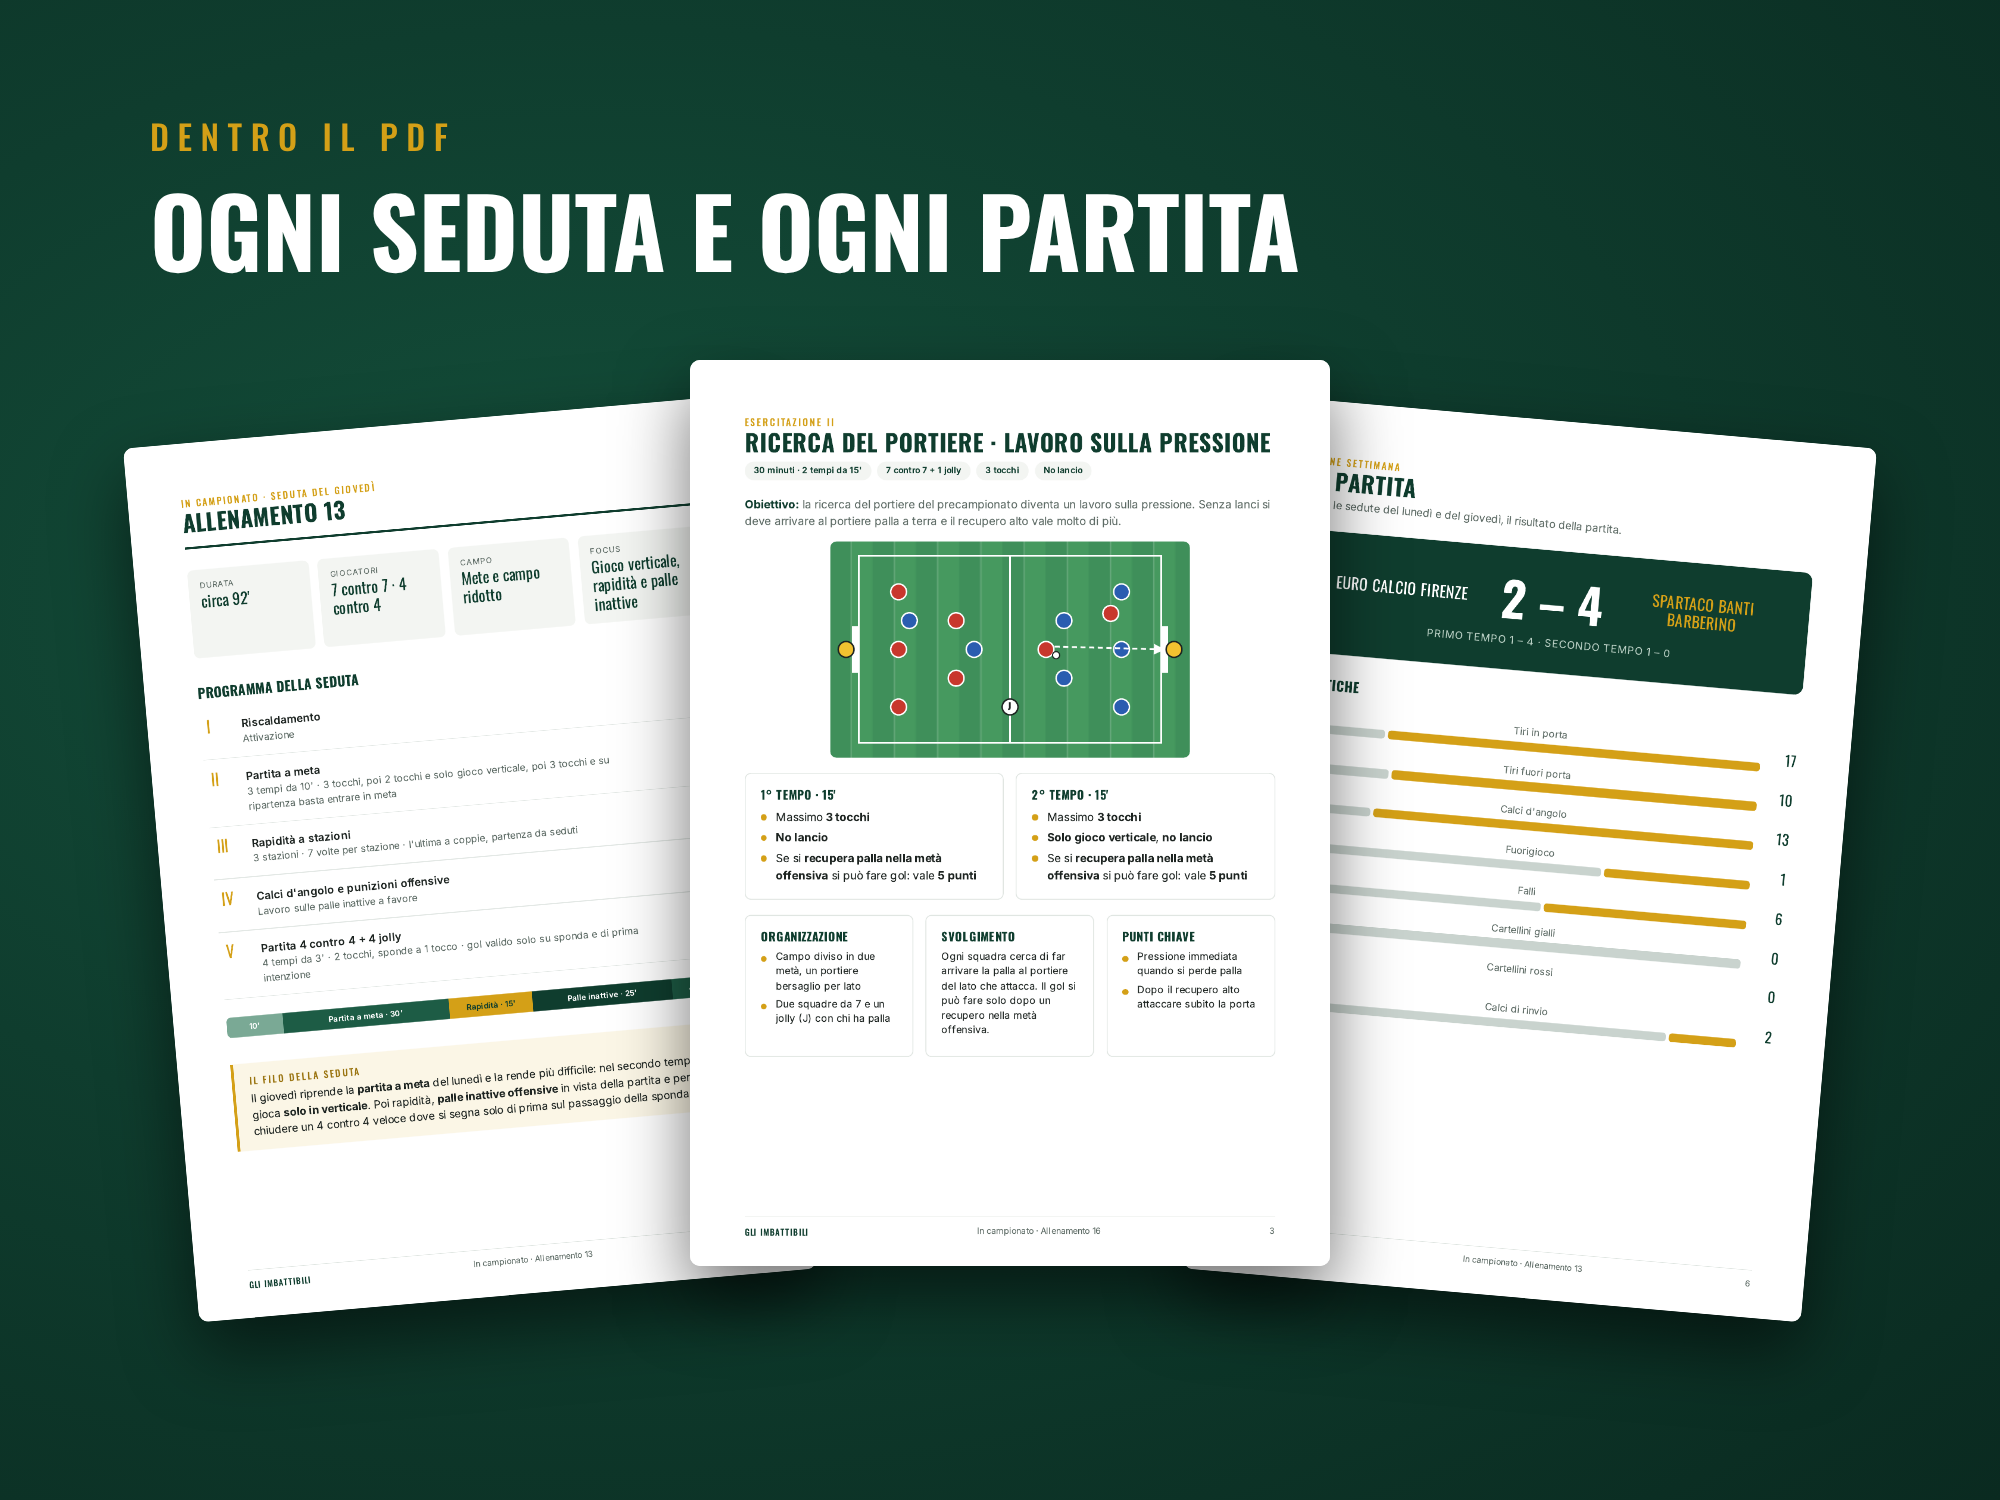
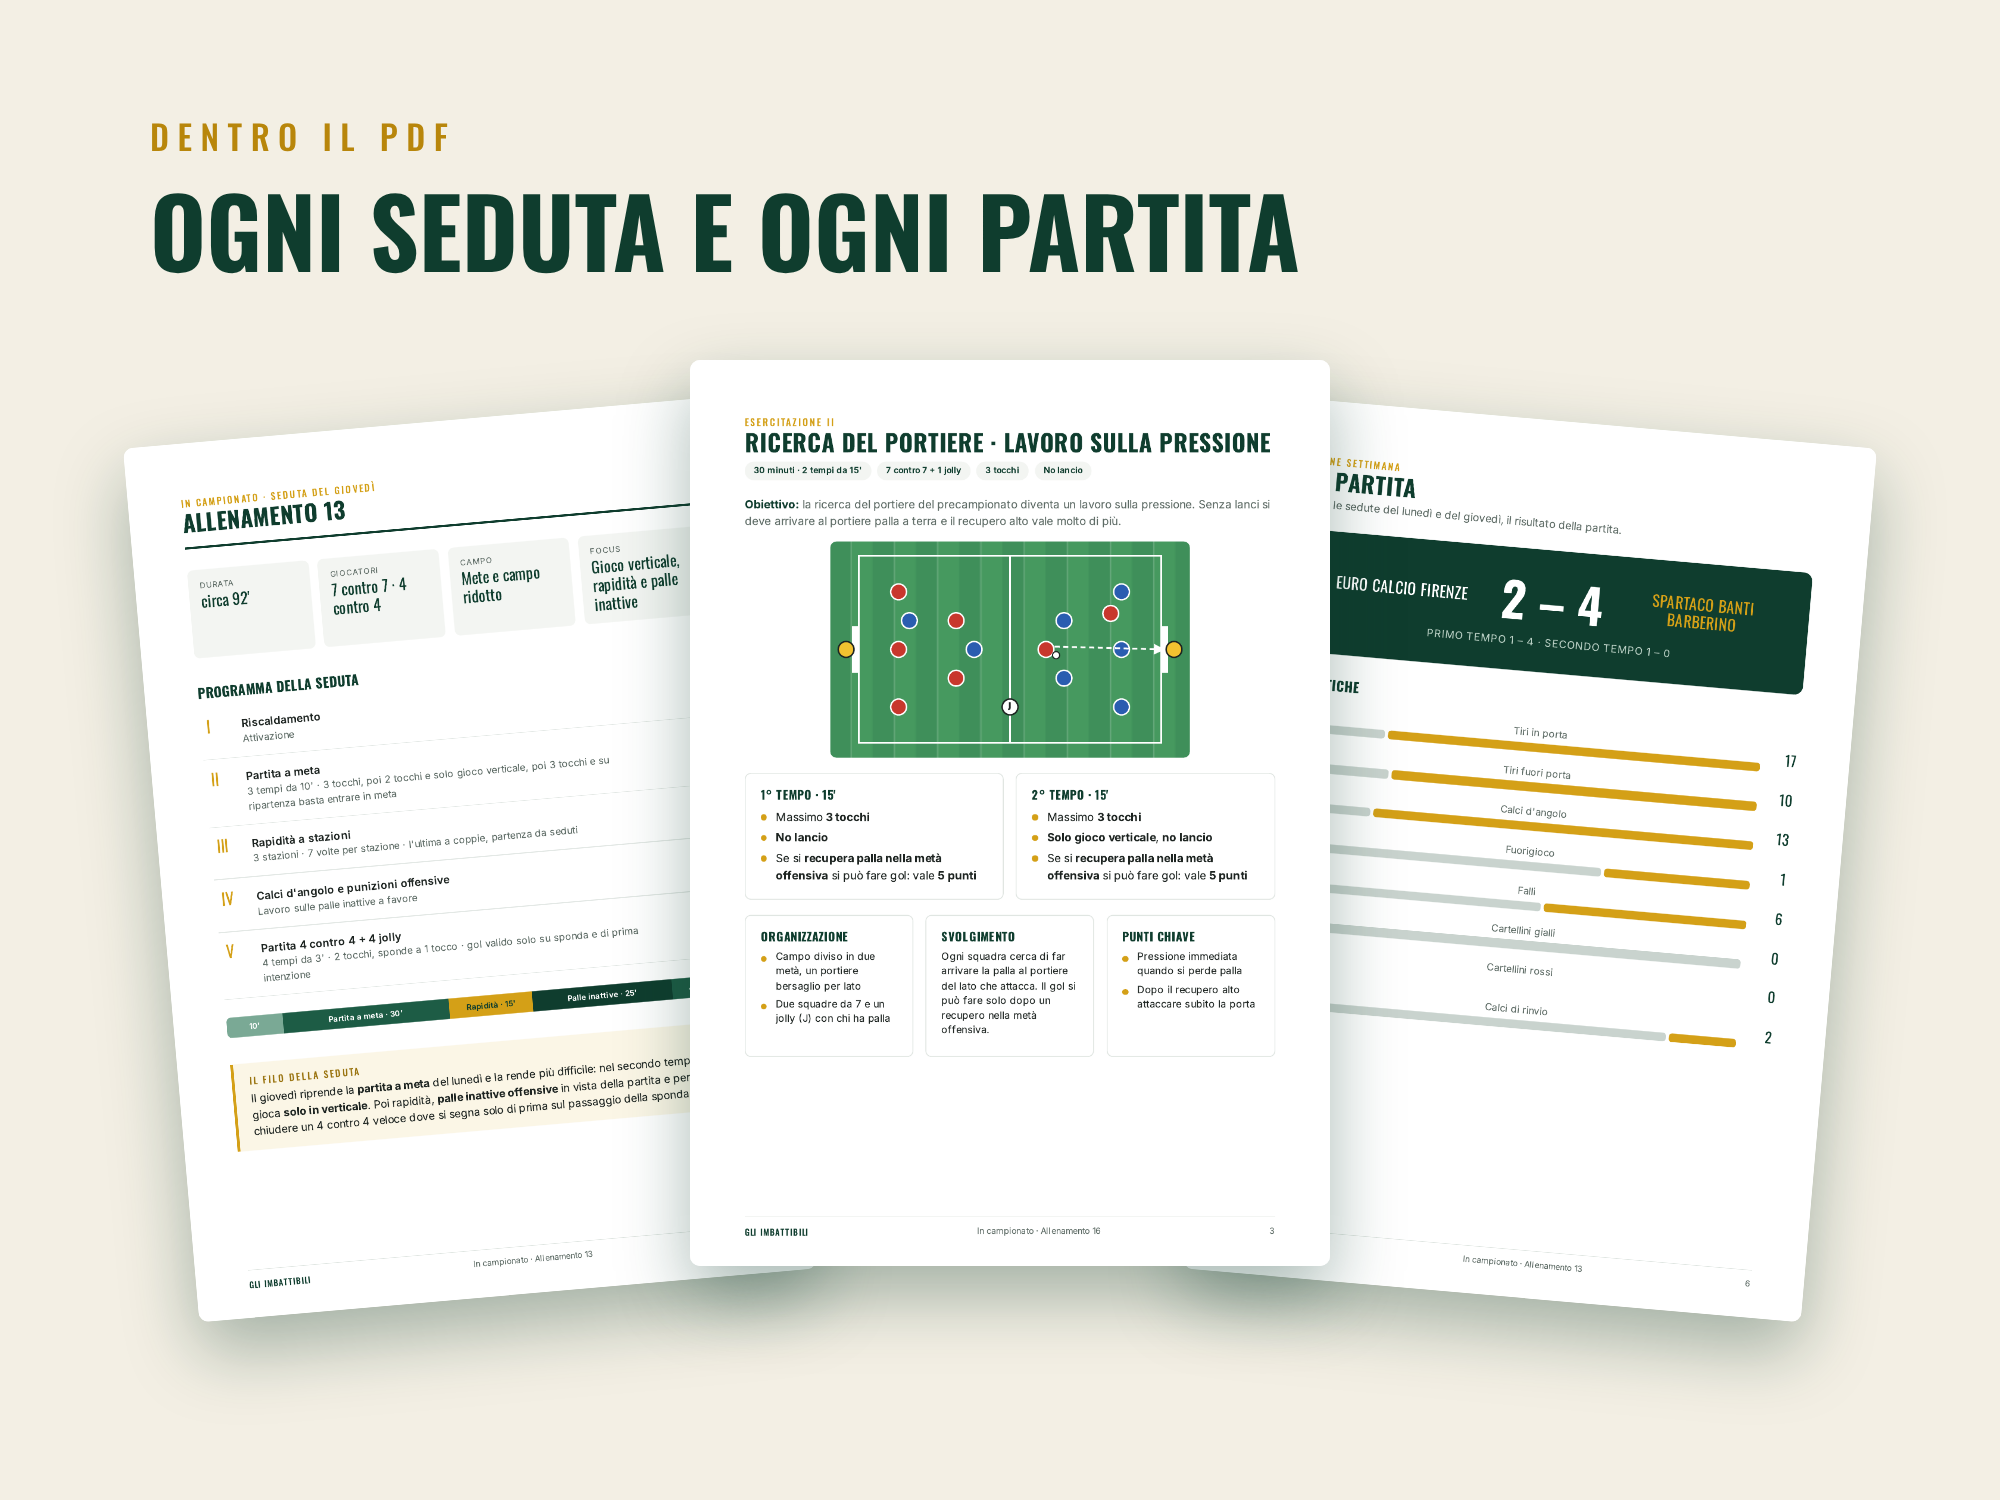
Foto annuncio In campionato in avorio; idea prime 4 settimane
Claude-Session: https://claude.ai/code/session_01C6jnkpg7j78s78of7Dc7AP

diff --git a/marketing/etsy/immagini-annuncio-campionato.html b/marketing/etsy/immagini-annuncio-campionato.html
@@ -26,6 +26,21 @@ p.sub { font-size: 40px; line-height: 1.4; color: #dfe6e1; }
 .punti li { font-size: 42px; line-height: 1.35; margin-bottom: 34px; padding-left: 56px; position: relative; color: #e8eeea; }
 .punti li::before { content: ""; position: absolute; left: 0; top: 14px; width: 26px; height: 26px; border-radius: 50%; background: #d4a017; }
 .punti b { color: #fff; }
+
+/* tema avorio (15/10): copertina diversa dal Precampionato */
+.slide { background: #f3efe4 !important; color: #0f3d2e !important; }
+.kick { color: #b8860b !important; }
+h1, h2 { color: #0f3d2e !important; }
+h1 span { color: #b8860b !important; }
+p.sub { color: #2b3a33 !important; }
+p.sub b, .punti b { color: #0f3d2e !important; }
+.badge { background: #0f3d2e !important; color: #f3efe4 !important; }
+.lista div { border-bottom-color: rgba(15,61,46,.25) !important; }
+.lista b { color: #b8860b !important; }
+.lista span { color: #0f3d2e !important; }
+.punti li { color: #2b3a33 !important; }
+.punti li::before { background: #b8860b !important; }
+.pag { box-shadow: 0 30px 70px rgba(15,61,46,.35) !important; }
 </style>
 </head>
 <body>

diff --git a/CLAUDE.md b/CLAUDE.md
@@ -20,6 +20,7 @@ Categoria** (Toscana): allenamenti **mercoledì e venerdì 18-21** (quei giorni 
 - **TikTok 13/10 ore 21:46**: **61 follower** (53 l'11/10), 95 like. Recupero alto (uscito alle 12) **583**, Ponte 1 **498**, 8 passaggi 1004, carosello Preventiva 1 **2321**, Reel cross 1562, Reel Preventiva 755.
 - **14/10 mattina**: Etsy ieri **8 visite** (5 da social, 2 dirette), 0 ordini, 1 vendita totale. Storia regalo IG: 98 account, 112 visualizzazioni, 100% follower, **3 clic sul link**, 0 risposte. Carosello Recupero alto IG (19h): **733 visualizzazioni**, 6 like, 5 salvataggi, 6 visite al profilo, **3 tocchi sul link in bio**, 0 follower, 0 commenti. TikTok stesso carosello: **1019 visualizzazioni**, 20 like, **21 salvataggi**, 0 commenti.
 - **Pubblico IG 14/10**: 4018 follower (+0,3% in 30 giorni). Contenuti per nuovi follow: carosello cross **7**, carosello Preventiva **4**, Reel cross 2, Reel Preventiva 1. Follower più attivi: **domenica 18-21**, **lunedì 12-15**, **martedì 12-15** Mer-gio-ven: picco **12-15**, poi 18-21 quasi uguale. Sabato: picco **18-21**, 12-15 subito dietro. Di notte (24-6) quasi nessuno. Orari attuali (13:00 nei giorni di campo, 18:00 e 20-21 la sera) già buoni.
+- **Etsy, colori (15/10, allenatore)**: ogni pacchetto ha la foto di copertina di un colore diverso per non avere un negozio tutto uguale. Precampionato = verde scuro; **In campionato = avorio** (`marketing/etsy/immagini-annuncio-campionato.html`). Idea nuova (15/10): **prime 4 settimane programmate di allenamenti della stagione** (da definire con lui).
 - **Messaggi del giorno (13/10, regola dell'allenatore)**: nel promemoria del mattino e nelle risposte mettere o preparare **solo le cose del giorno**, mai quelle dei giorni successivi (niente Etsy di giovedì il martedì).
 - **Regola della sessione piena**: quando il contesto della conversazione supera circa l'80% (get_session →
   context_usage) o si notano dimenticanze, dirlo all'allenatore e proporre una nuova sessione MARKETING. Prima di
